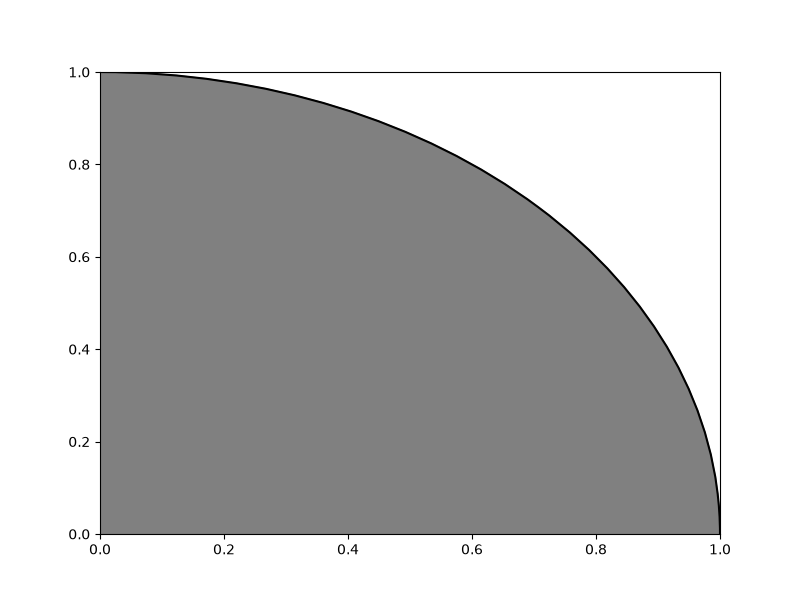
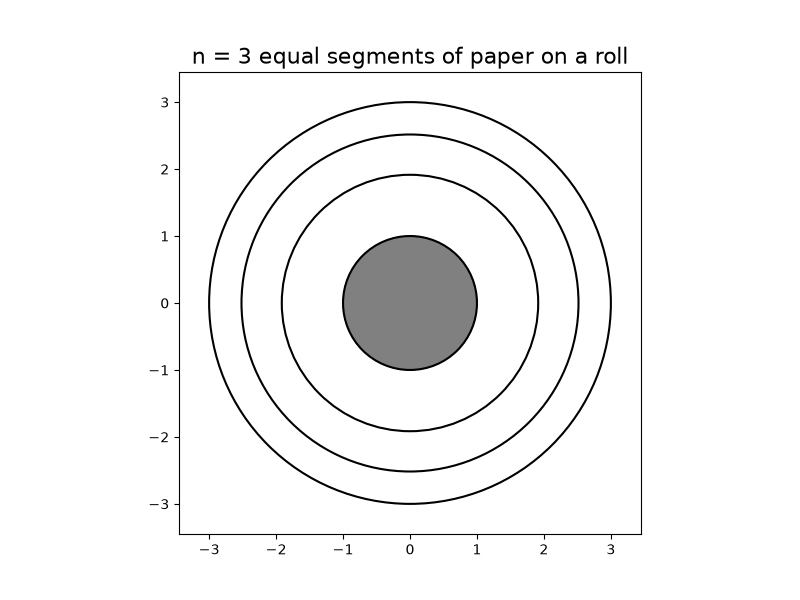
HW4 Done

diff --git a/module-4/squarespare.py b/module-4/squarespare.py
@@ -17,7 +17,9 @@ def product_remaining(r, R_new=3):
     -------
     Current remaining length as fraction of original length of new roll.
     """
-    return (r ** 2 - 1) / (R_new ** 2 - 1) ### REPLACE WITH CORRECT FORMULA
+    x = r / R_new
+    a = 1 / R_new
+    return  (x**2 - (a)**2) / (1 - (a)**2) ### REPLACE WITH CORRECT FORMULA
 
 def product_visible(el_frac, R_new=3):
     """Visible roll radius by fraction of remaining product.
@@ -34,8 +36,12 @@ def product_visible(el_frac, R_new=3):
     Current visible radius of roll, in units of r0, the cardboard cylinder
     radius.
     """
-    return np.sqrt(el_frac * (R_new ** 2 - 1) + 1) ### REPLACE WITH CORRECT FORMULA
+    a = 1 / R_new
+    return np.sqrt(el_frac * (1 - (a)**2) + (a)**2) ### REPLACE WITH CORRECT FORMULA
 
+print("Case r = R0:", product_remaining(3))
+print("Case r = r0:", product_remaining(1))
+print("Case el_frac = 3/5:", product_visible(3/5))
 def visualize_danger(n, R_new=3, saveas=''):
     """Use n line segments of equal product to visualize paradox of the roll.
 
@@ -63,7 +69,7 @@ def visualize_danger(n, R_new=3, saveas=''):
     ## use the functions defined above to calculate the line segments to plot
     ax = fh.add_subplot(1, 1, 1)
     fractions = np.linspace(0, 1, n + 1)        # n equal slices of paper -> n+1 boundaries
-    radii = product_visible(fractions, R_new)   # boundary radii, from r0 = 1 out to R_new
+    radii = R_new * product_visible(fractions, R_new)   # boundary radii, from r0 = 1 out to R_new
 
     ax.add_patch(plt.Circle((0, 0), 1, color='gray'))   # cardboard core, radius r0
     for r in radii:
@@ -72,10 +78,14 @@ def visualize_danger(n, R_new=3, saveas=''):
 
     # Set axes properties here for a better view
     ## things like axis limits and tick marks
+    lim = 1.15 * R_new                 # show whole roll plus a 15% margin
+    ax.set_xlim(-lim, lim)
+    ax.set_ylim(-lim, lim)
+    ax.set_aspect('equal')             # circles stay round in an 8x6 figure
 
     # Stylize and annotate
     ## things like axes labels, font sizes, or any other finishing touches
-
+    ax.set_title(f'n = {n} equal segments of paper on a roll', fontsize=16)
     ######################
 
     # Finally, show on screen and/or save to file
